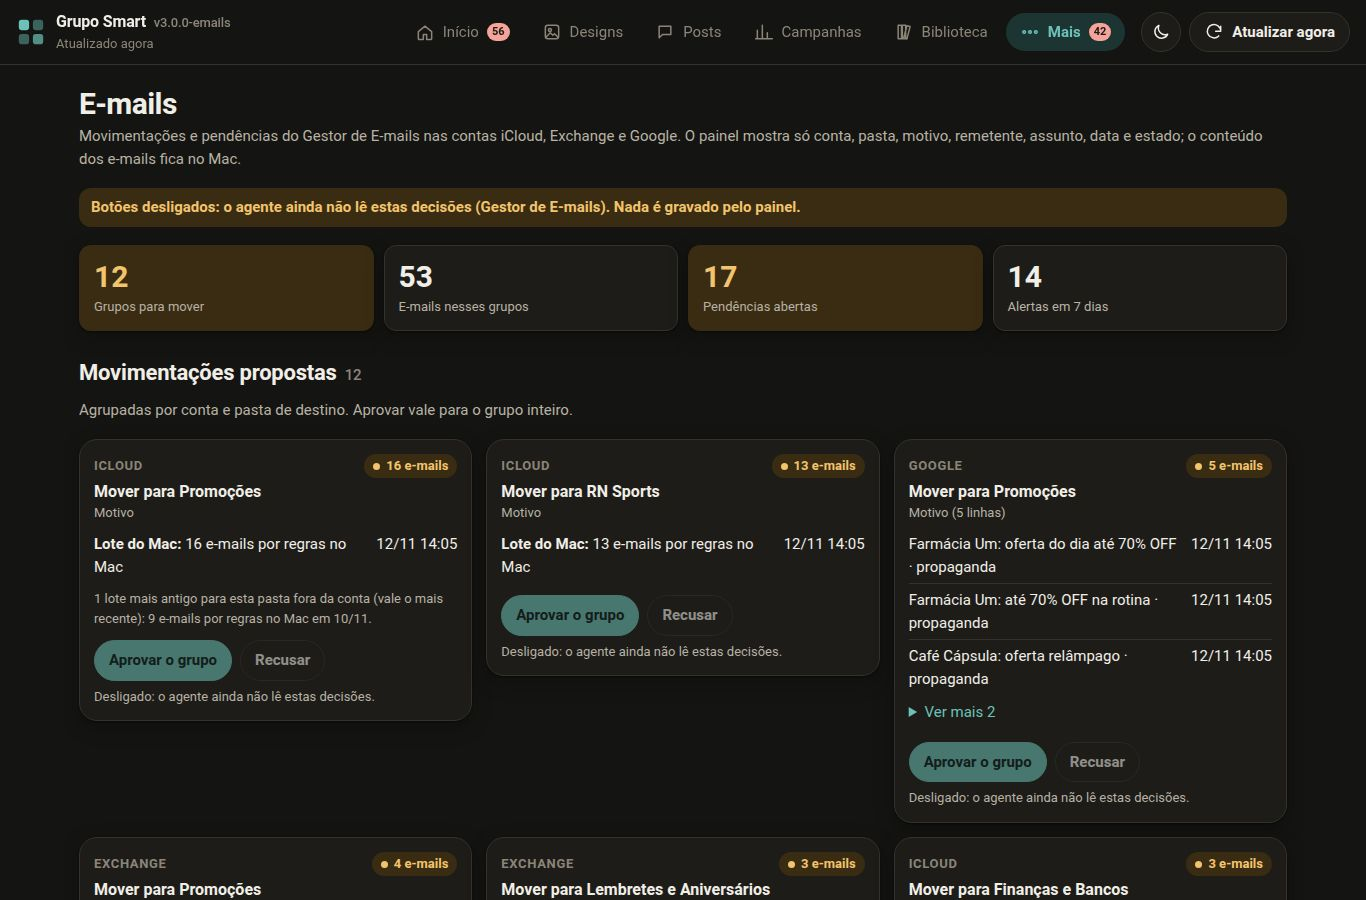
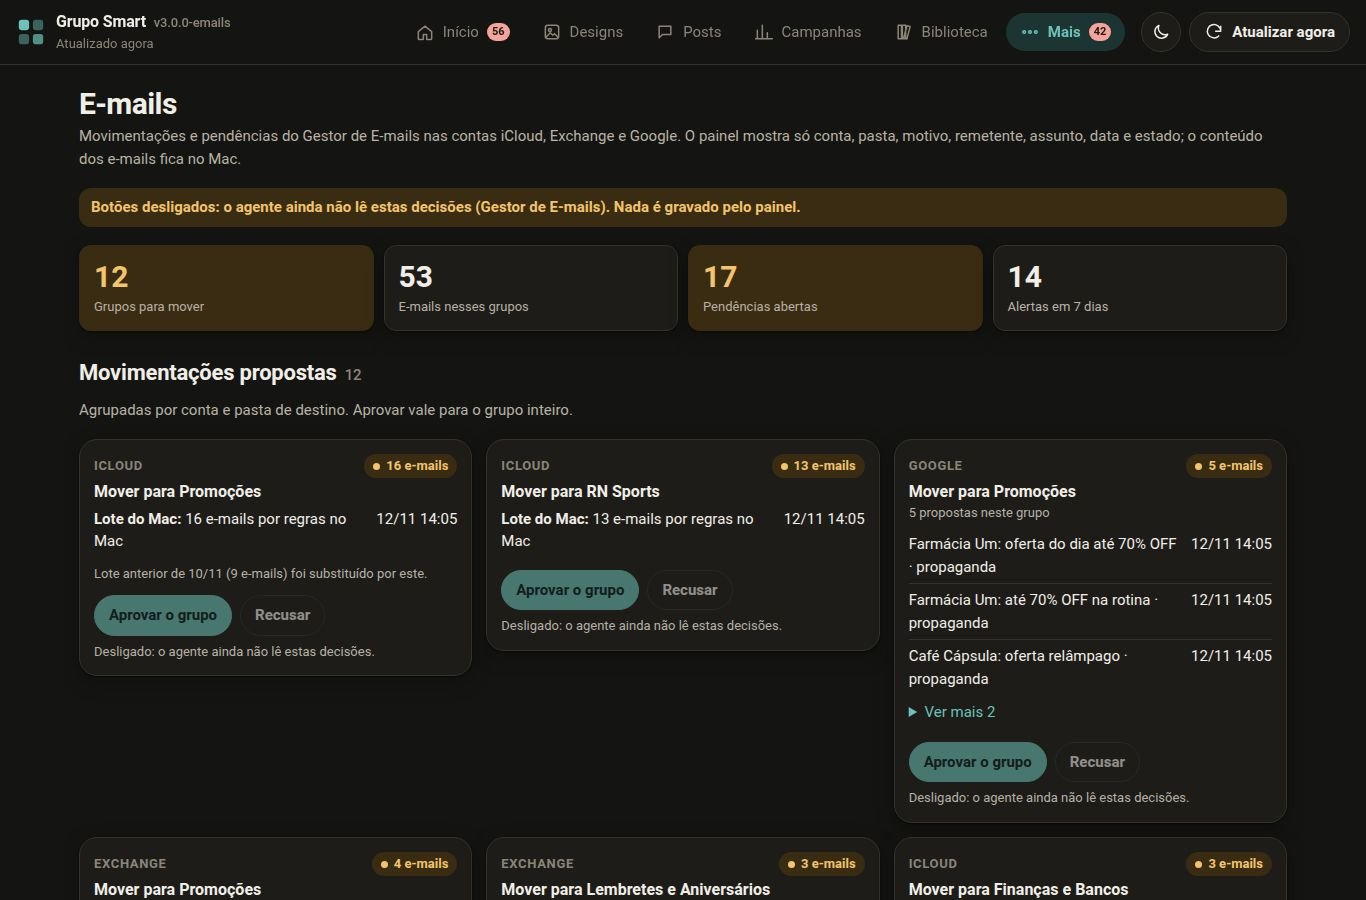
E-mails: cartão de movimentação sem rótulo solto e lote anterior explicado
- Tira o rótulo "Motivo" sozinho; grupos com várias linhas mostram
  "N propostas neste grupo".
- Lote antigo: "Lote anterior de 10/11 (9 e-mails) foi substituído por este."
- Capturas refeitas.

diff --git a/src/ModEmails.html b/src/ModEmails.html
@@ -19,8 +19,11 @@
     return '<article class="cartao-v3">' +
       '<div class="v3-topo"><span class="cartao-empresa">' + e(x.conta) + '</span>' + U.selo('aguardando_aprovo', x.emails + (x.emails === 1 ? ' e-mail' : ' e-mails')) + '</div>' +
       '<div class="cartao-titulo">Mover para ' + e(x.pasta) + '</div>' +
-      '<p class="mudo legenda-rot">Motivo ' + (x.linhas.length === 1 ? '' : '(' + x.linhas.length + ' linhas)') + '</p>' + lista +
-      (x.lotes_antigos.length ? '<p class="mudo ajuda">' + x.lotes_antigos.length + (x.lotes_antigos.length === 1 ? ' lote mais antigo' : ' lotes mais antigos') + ' para esta pasta fora da conta (vale o mais recente): ' + x.lotes_antigos.map(function (l) { return e(l.motivo) + ' em ' + U.dataBr(l.proposto_em); }).join('; ') + '.</p>' : '') +
+      (x.linhas.length > 1 ? '<p class="mudo legenda-rot">' + x.linhas.length + ' propostas neste grupo</p>' : '') + lista +
+      x.lotes_antigos.map(function (l) {
+        var n = (String(l.motivo).match(/^\s*(\d+)\s+e-?mails?/i) || [])[1];
+        return '<p class="mudo ajuda">Lote anterior de ' + U.dataBr(String(l.proposto_em).slice(0, 10)) + (n ? ' (' + n + (n === '1' ? ' e-mail' : ' e-mails') + ')' : '') + ' foi substituído por este.</p>';
+      }).join('') +
       V3.botoes('emails', x, { aprovar: 'Aprovar o grupo', recusar: 'Recusar' }) +
       '</article>';
   }
